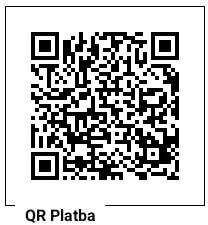
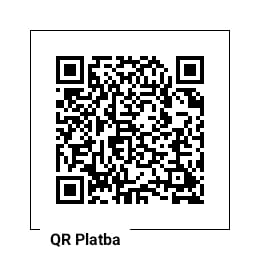
Changes

diff --git a/src/pages/Index.tsx b/src/pages/Index.tsx
@@ -1,6 +1,7 @@
 import { Button } from "@/components/ui/button";
 import { Card, CardContent, CardDescription, CardHeader, CardTitle } from "@/components/ui/card";
-import { Calendar, Heart, Users, MapPin, Clock, FileText, Image, Flame, Handshake, Car, Coffee, Church, Mail, Facebook, Youtube } from "lucide-react";
+import { Calendar, Heart, Users, MapPin, Clock, FileText, Image, Flame, Handshake, Car, Coffee, Church, Mail, Music, BookOpen, MessageSquare, Sparkles, FileImage } from "lucide-react";
+import { FaFacebook, FaInstagram } from "react-icons/fa";
 import Navbar from "@/components/Navbar";
 import Footer from "@/components/Footer";
 import letakImage from "@/assets/cho-letak.jpg";
@@ -93,7 +94,38 @@ const Index = () => {
         </div>
       </section>
 
-      {/* Mapa a praktické informace */}
+      {/* Program */}
+      <section id="program" className="py-16 md:py-24 bg-background">
+        <div className="container mx-auto px-4">
+          <div className="max-w-3xl mx-auto">
+            <h2 className="text-3xl md:text-4xl font-bold text-foreground mb-10 text-center">
+              Program
+            </h2>
+            <div className="space-y-0">
+              {[
+                { icon: Music, text: "Modlitba chval" },
+                { icon: BookOpen, text: "Katecheze na 2 Tim 1,6-8" },
+                { icon: Church, text: "Mše svatá" },
+                { icon: Coffee, text: "Oběd" },
+                { icon: MessageSquare, text: "Info okénko" },
+                { icon: Handshake, text: "Praktický blok: Jak vydat svědectví" },
+                { icon: Sparkles, text: "Modlitba \"Rozněcuj oheň božího daru\"" },
+              ].map((item, index) => (
+                <div 
+                  key={index} 
+                  className={`flex items-center gap-4 py-4 ${index !== 6 ? 'border-b border-border' : ''}`}
+                >
+                  <div className="w-12 h-12 rounded-full bg-primary/10 flex items-center justify-center flex-shrink-0">
+                    <item.icon className="w-6 h-6 text-primary" />
+                  </div>
+                  <p className="text-lg font-medium text-foreground">{item.text}</p>
+                </div>
+              ))}
+            </div>
+          </div>
+        </div>
+      </section>
+
       <section className="py-12 md:py-16 bg-muted/30">
         <div className="container mx-auto px-4">
           <div className="grid md:grid-cols-2 gap-8 items-stretch">
@@ -121,7 +153,7 @@ const Index = () => {
                   </div>
                   <div>
                     <h4 className="font-semibold text-foreground">Parkování</h4>
-                    <p className="text-muted-foreground">Parkování je možné v okolí Katolického domu zdarma</p>
+                    <p className="text-muted-foreground">Parkování možné v okolí Katolického domu, který se zároveň nachází 3min od vlakové zastávky.</p>
                   </div>
                 </div>
                 <div className="flex items-start gap-4">
@@ -130,7 +162,7 @@ const Index = () => {
                   </div>
                   <div>
                     <h4 className="font-semibold text-foreground">Občerstvení</h4>
-                    <p className="text-muted-foreground">Během dne bude zajištěno občerstvení a oběd</p>
+                    <p className="text-muted-foreground">Během dne bude zajištěno občerstvení a možnost objednání oběda.</p>
                   </div>
                 </div>
                 <div className="flex items-start gap-4">
@@ -139,7 +171,7 @@ const Index = () => {
                   </div>
                   <div>
                     <h4 className="font-semibold text-foreground">Program pro děti</h4>
-                    <p className="text-muted-foreground">Zajištěn dětský program po celou dobu setkání</p>
+                    <p className="text-muted-foreground">Zajištěn dětský program po dobu oblastního setkání, nutné děti předem registrovat.</p>
                   </div>
                 </div>
                 <div className="flex items-start gap-4">
@@ -148,7 +180,7 @@ const Index = () => {
                   </div>
                   <div>
                     <h4 className="font-semibold text-foreground">Mše svatá</h4>
-                    <p className="text-muted-foreground">Setkání bude zakončeno společnou mší svatou</p>
+                    <p className="text-muted-foreground">Během setkání budeme slavit společnou mši svatou.</p>
                   </div>
                 </div>
               </div>
@@ -278,26 +310,26 @@ const Index = () => {
               <Button 
                 size="lg" 
                 className="bg-primary hover:bg-primary/90"
-                onClick={() => window.open('https://drive.google.com/file/d/1w19tiwIM0A08io4yGyQ5F67nGT08j8LN/view?usp=drive_link', '_blank')}
+                onClick={() => window.open('https://drive.google.com/file/d/13BN8bMNmZS8d50doNyPgbiAla4hcLrm8/view?usp=sharing', '_blank')}
               >
-                <FileText className="mr-2" size={20} />
-                Plakát A4
+                <FileImage className="mr-2" size={20} />
+                Plakát
               </Button>
               <Button 
                 size="lg" 
                 className="bg-primary hover:bg-primary/90"
-                onClick={() => window.open('https://drive.google.com/file/d/19DXfSIGbslW1AG4zofLVTRwzPJAmkjBk/view?usp=drive_link', '_blank')}
+                onClick={() => window.open('https://drive.google.com/file/d/1u76vmYfGxquC53AyHy6A_GaZyqC0Ji2L/view?usp=sharing', '_blank')}
               >
-                <FileText className="mr-2" size={20} />
-                Plakát A3
+                <FaInstagram className="mr-2" size={20} />
+                Instagram
               </Button>
               <Button 
                 size="lg" 
                 className="bg-primary hover:bg-primary/90"
-                onClick={() => window.open('https://drive.google.com/file/d/1Kqfmnn5kmL3fRPUqep9cM2u1xzQgZeJc/view?usp=drive_link', '_blank')}
+                onClick={() => window.open('https://drive.google.com/file/d/11Tk0F6LKjblnP1Vin6cE4Ef385VYhBlw/view?usp=sharing', '_blank')}
               >
-                <Image className="mr-2" size={20} />
-                Instagram post
+                <FaFacebook className="mr-2" size={20} />
+                Facebook
               </Button>
             </div>
           </div>
@@ -313,36 +345,24 @@ const Index = () => {
               <h2 className="text-3xl font-bold text-foreground mb-6">
                 Kontakt
               </h2>
-              <p className="text-muted-foreground mb-6">
-                Pro více informací nás neváhejte kontaktovat
-              </p>
-              <div className="flex items-center gap-2 mb-6">
+              <div className="mb-4">
+                <p className="font-semibold text-foreground mb-1">Pořadatel</p>
+                <a 
+                  href="https://cho.cz" 
+                  target="_blank" 
+                  rel="noopener noreferrer"
+                  className="text-primary hover:underline"
+                >
+                  Charismatická obnova, z.s. (cho.cz)
+                </a>
+              </div>
+              <div className="flex items-center gap-2">
                 <Mail size={18} className="text-primary" />
                 <a 
                   href="mailto:cho-brno@seznam.cz" 
                   className="text-foreground hover:text-primary transition-colors"
                 >
                   cho-brno@seznam.cz
-                </a>
-              </div>
-              <div className="flex items-center gap-6">
-                <a 
-                  href="https://www.facebook.com" 
-                  target="_blank" 
-                  rel="noopener noreferrer"
-                  className="text-[#5C4A42] hover:text-primary transition-colors"
-                  aria-label="Facebook"
-                >
-                  <Facebook size={28} />
-                </a>
-                <a 
-                  href="https://www.youtube.com" 
-                  target="_blank" 
-                  rel="noopener noreferrer"
-                  className="text-[#5C4A42] hover:text-primary transition-colors"
-                  aria-label="YouTube"
-                >
-                  <Youtube size={28} />
                 </a>
               </div>
             </div>
@@ -359,7 +379,7 @@ const Index = () => {
                 </div>
                 <div>
                   <p className="text-sm text-muted-foreground mb-1">Variabilní symbol:</p>
-                  <p className="text-xl font-semibold text-foreground">2202</p>
+                  <p className="text-xl font-semibold text-foreground">2802</p>
                 </div>
                 <div className="pt-4 flex justify-center">
                   <div className="bg-muted/30 p-6 rounded-lg">
